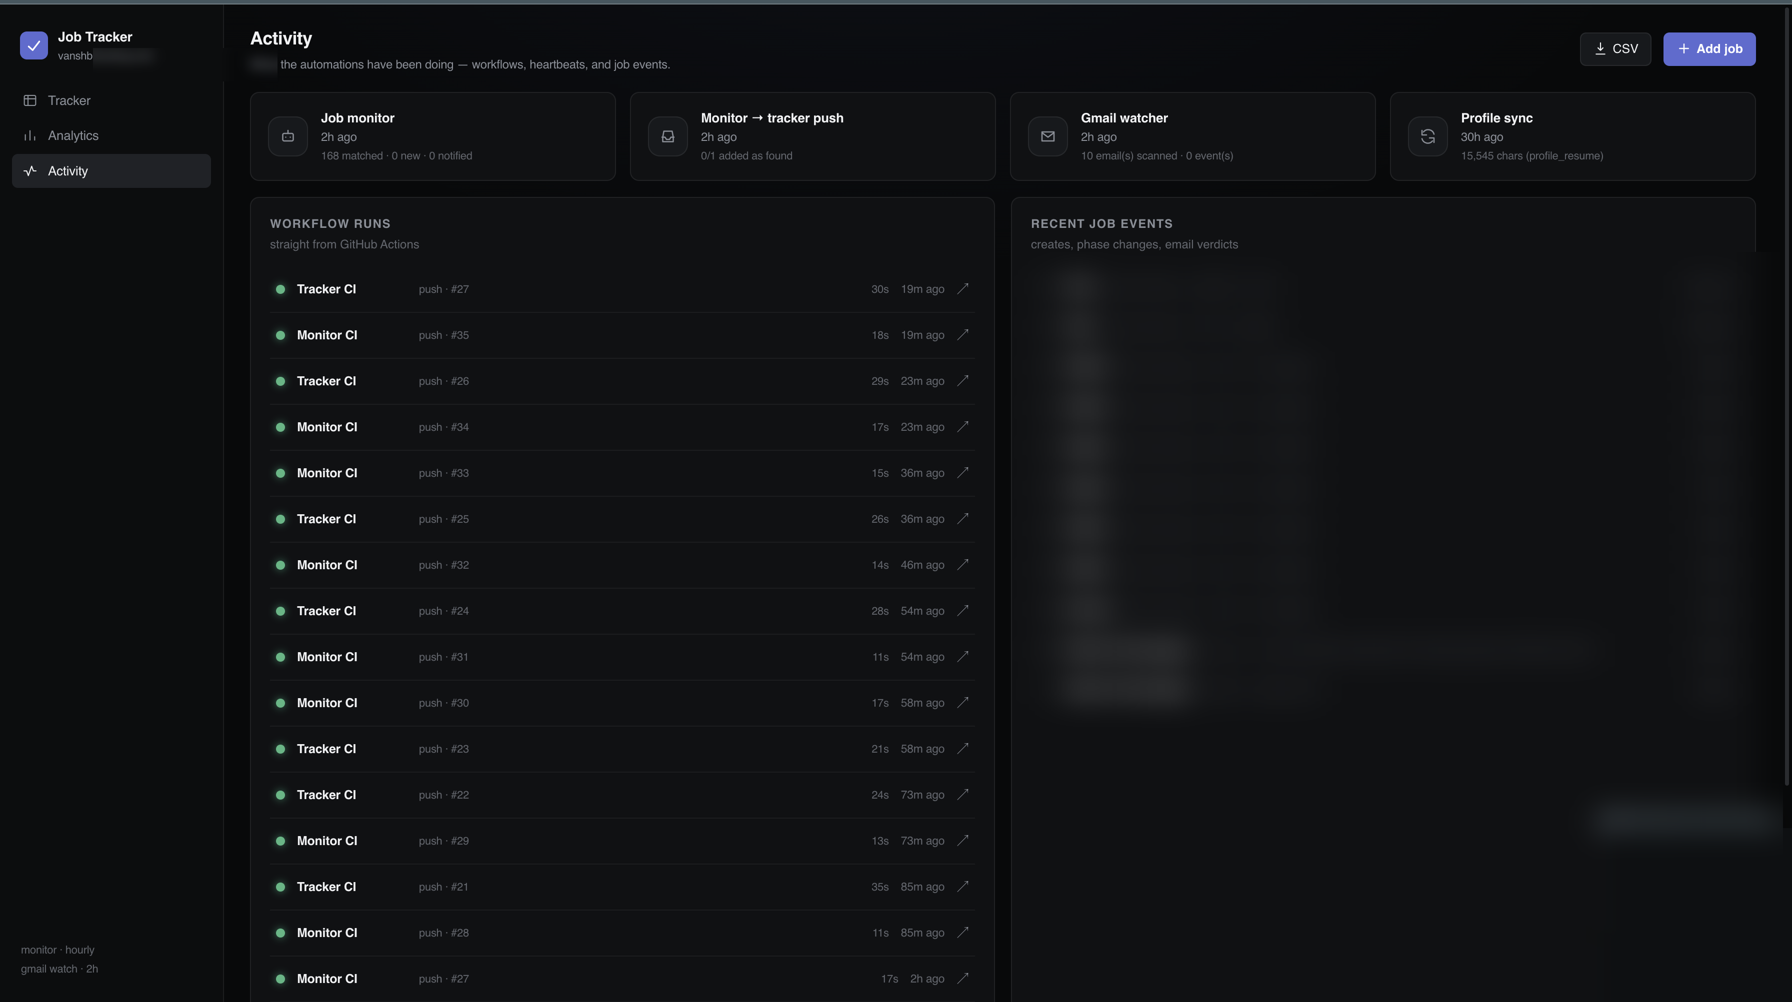
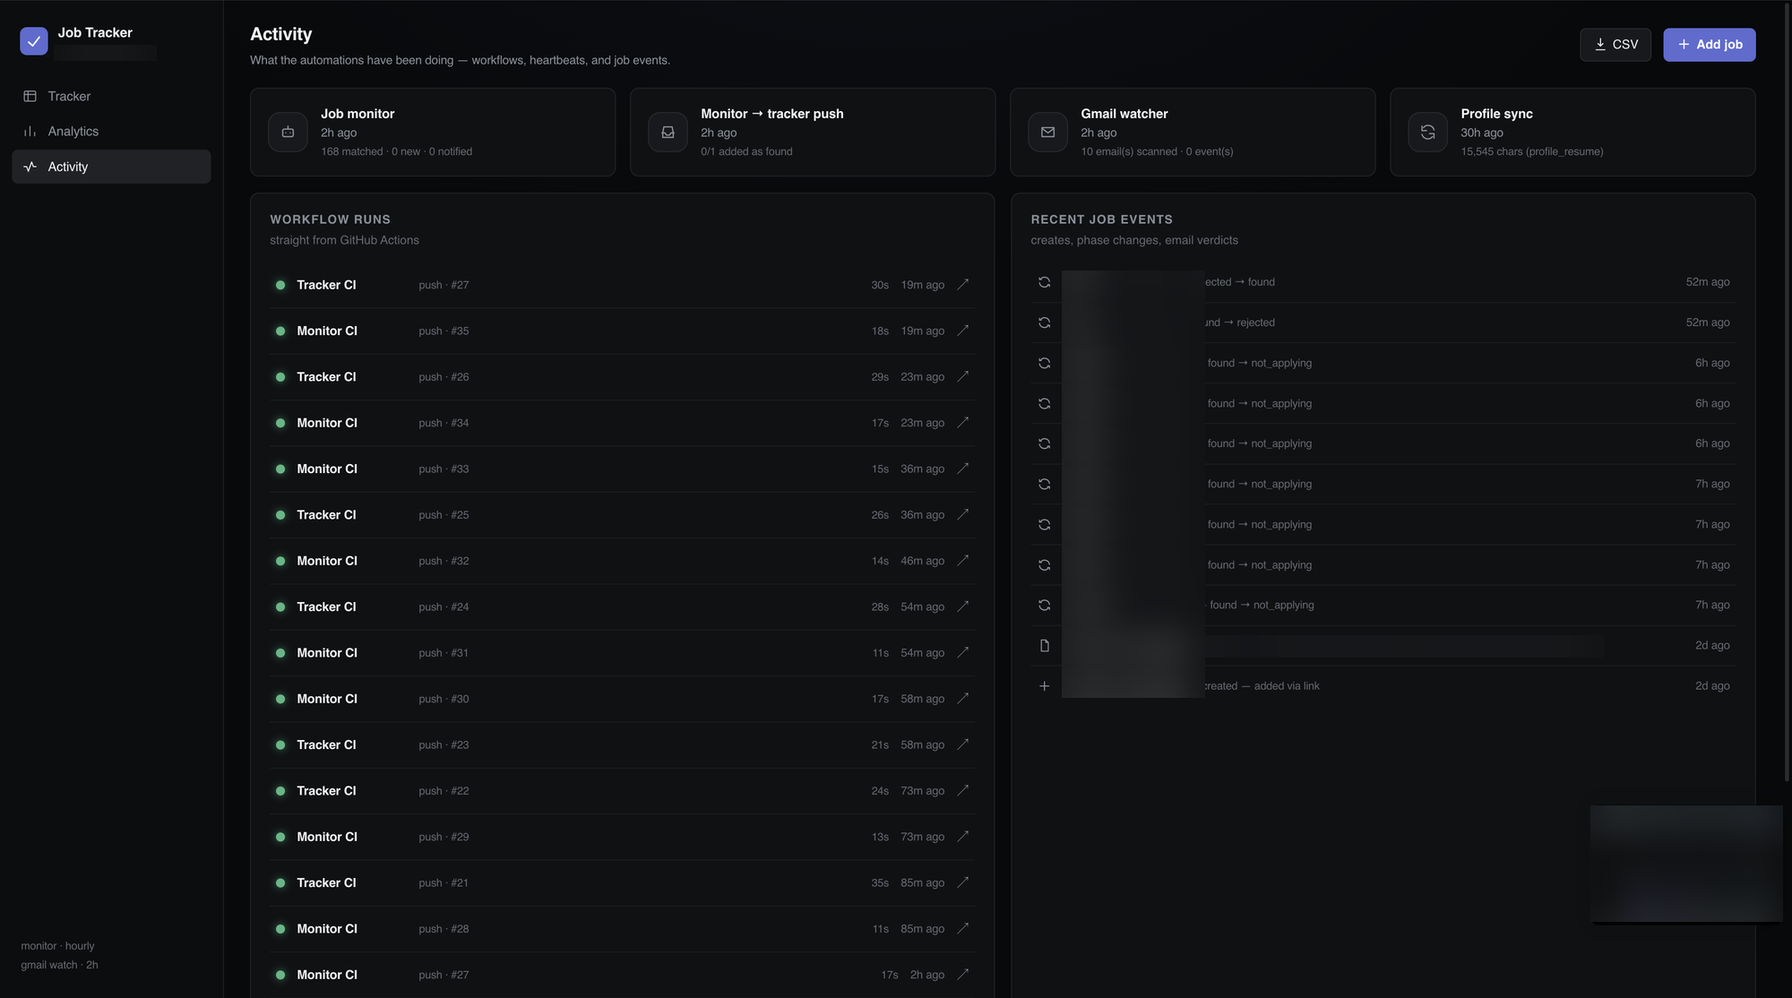
docs: fresh redacted dashboard screenshots + job-detail view, 4-tier triage in copy

diff --git a/README.md b/README.md
@@ -14,9 +14,13 @@
 
 The dashboard (dark, Linear-inspired, installable as a PWA). Job/company data is blurred for privacy.
 
-**Tracker** — every found role, **AI-matched on a 0–100 scale** and triaged into apply-now tiers (Top ≥85 / Recommended ≥70 / Take a look ≥50), with an estimated **Pay** tier, tagged into a **multi-level category taxonomy** (a job can live in several categories at once). Star any role into **your own favorite buckets** ("Dream jobs", …). Filter with a **tri-state category tree**, a bucket viewer, and a **light/dark toggle**:
+**Tracker** — every found role, **AI-matched on a 0–100 scale** and triaged into apply-now tiers (Top ≥85 / Recommended 70+ / ✨ For you 60+ / Take a look 50+), with an estimated **Pay** tier, tagged into a **multi-level category taxonomy** (a job can live in several categories at once). Star any role into **your own favorite buckets** ("Dream jobs", …). Filter with a **tri-state category tree**, a bucket viewer, and a **light/dark toggle**:
 
 <img src="docs/screenshots/dashboard-tracker.png" width="900" alt="Tracker">
+
+**Job detail** — click any row for the full picture: the AI's match reasoning, a company blurb with an estimated pay tier, extracted skills, and the full description/requirements, plus per-job actions (re-match, edit, notes, tailored document generation):
+
+<img src="docs/screenshots/dashboard-job-detail.png" width="900" alt="Job detail">
 
 **Analytics** — a **deep-insights** panel that reads your *actual behaviour* (not just pipeline counts): fit quality of what you apply to, in-lane focus, pay you're targeting, follow-ups going stale, weekly momentum, conversion rates, and outcomes by lane. Plus a **tools & buzzwords** view scoped through a **hierarchical category tree** (have vs should-learn, auto-updated from your profile), a **cost center** (spend over time by provider), and a **drag-to-reorder / resizable dashboard** you can lay out however you want:
 